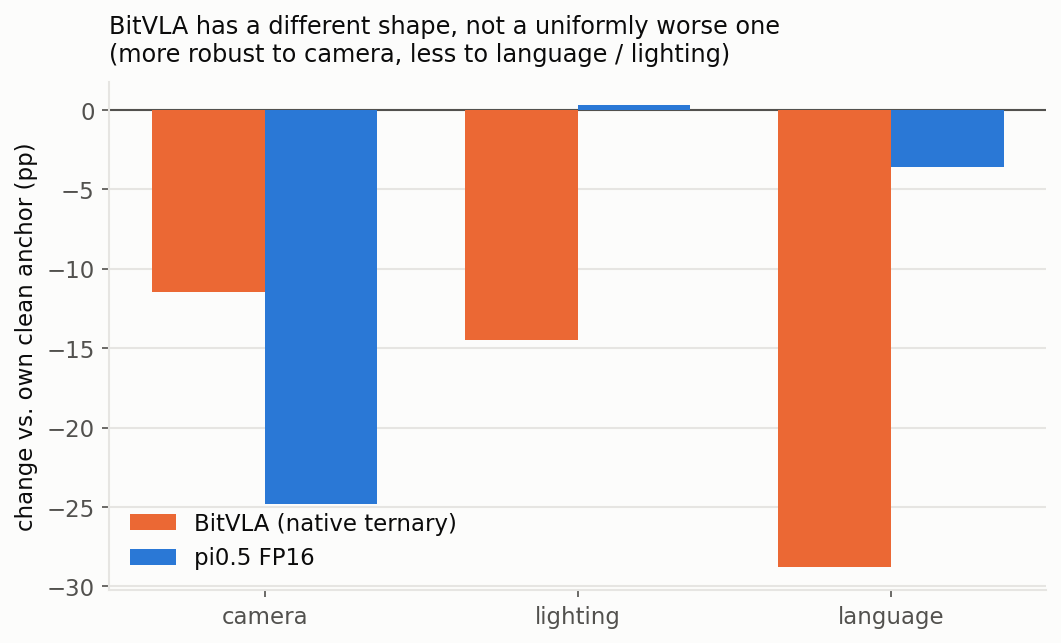
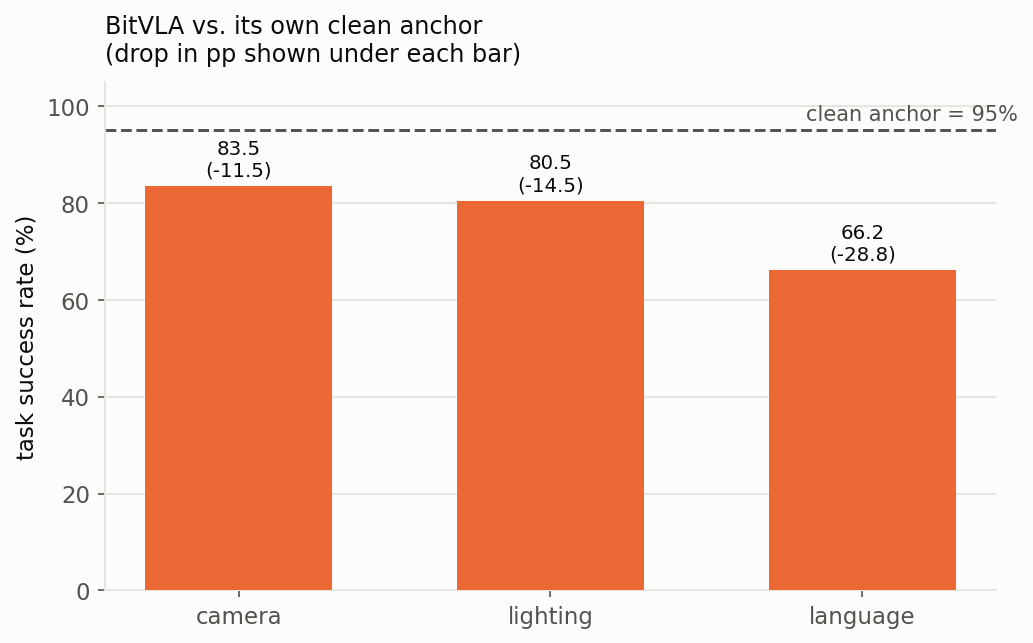
BitVLA: report against its own clean anchor only, drop the pi0.5 FP16 comparison

diff --git a/scripts/make_figures.py b/scripts/make_figures.py
@@ -131,24 +131,28 @@ def fig_parity():
     plt.close(fig)
 
 
-# --- Figure 4: BitVLA robustness profile (secondary observation) --------------
+# --- Figure 4: BitVLA vs. its own clean anchor (secondary observation) ---------
 def fig_bitvla():
     df = pd.read_csv(os.path.join(DATA, "bitvla_native_lowbit.csv"), comment="#")
+    clean = float(df.loc[df["axis"] == "clean", "bitvla_sr"].iloc[0])
     df = df[df["axis"] != "clean"]
     axes = df["axis"]
     x = np.arange(len(df))
-    w = 0.36
-    fig, ax = plt.subplots(figsize=(7.2, 4.4))
-    ax.bar(x - w / 2, df["bitvla_drop"], w, label="BitVLA (native ternary)", color=C_Q1, zorder=3)
-    ax.bar(x + w / 2, df["pi05_drop"], w, label="pi0.5 FP16", color=C_FP16, zorder=3)
-    ax.axhline(0, color=INK2, lw=1.0)
+    fig, ax = plt.subplots(figsize=(7.0, 4.4))
+    bars = ax.bar(x, df["bitvla_sr"], 0.6, color=C_Q1, zorder=3)
+    ax.axhline(clean, color=INK2, lw=1.4, ls="--", zorder=2)
+    ax.text(len(df) - 0.5, clean + 1.2, f"clean anchor = {clean:.0f}%",
+            ha="right", va="bottom", color=INK2, fontsize=10)
+    for xi, (sr, drop) in enumerate(zip(df["bitvla_sr"], df["drop"])):
+        ax.text(xi, sr + 1.2, f"{sr:.1f}\n({drop:+.1f})", ha="center", va="bottom",
+                color=INK, fontsize=9.5)
     style(ax)
     ax.set_xticks(x)
     ax.set_xticklabels(axes)
-    ax.set_ylabel("change vs. own clean anchor (pp)")
-    ax.set_title("BitVLA has a different shape, not a uniformly worse one\n(more robust to camera, less to language / lighting)",
+    ax.set_ylabel("task success rate (%)")
+    ax.set_ylim(0, 105)
+    ax.set_title("BitVLA vs. its own clean anchor\n(drop in pp shown under each bar)",
                  fontsize=11.5, color=INK, loc="left", pad=10)
-    ax.legend(frameon=False, loc="lower left")
     fig.tight_layout()
     fig.savefig(os.path.join(FIGS, "fig4_bitvla_profile.png"), dpi=150, bbox_inches="tight")
     plt.close(fig)

diff --git a/docs/04_bitvla_native_lowbit.md b/docs/04_bitvla_native_lowbit.md
@@ -6,47 +6,39 @@ pending). **Data:** [`../data/bitvla_native_lowbit.csv`](../data/bitvla_native_l
 This section sits apart from the rest of the repository. BitVLA is **not**
 post-training quantized: every LLM weight is trained ternary {−1,0,1} and the
 vision encoder is 1.58-bit quantization-aware distilled. It has **no FP16 twin**,
-so it cannot be put into a matched comparison the way the PTQ packs can. It is
-shown here only to contrast native low-bit training against the post-training
-quantization measured elsewhere in this repo.
+so there is nothing to put it into a matched comparison against. It is reported
+here purely on its own terms — how far each perturbation moves it from its own
+clean performance.
 
 At ~1.4 GB it is roughly 11× smaller than OpenVLA-OFT.
 
-Because the two models start from different clean scores, the fair cross-model
-view is each model's **drop relative to its own clean anchor**:
+| condition | success rate | drop vs. clean |
+|---|---:|---:|
+| clean | 95.0 | — |
+| camera (viewpoint) | 83.5 | −11.5 |
+| lighting | 80.5 | −14.5 |
+| language (paraphrase) | 66.2 | −28.8 |
 
-| axis | BitVLA SR | BitVLA drop | pi0.5-FP16 SR | pi0.5 drop | relative |
-|---|---:|---:|---:|---:|---:|
-| clean | 95.0 | — | 99.0 | — | — |
-| camera (viewpoint) | 83.5 | −11.5 | 74.2 | −24.8 | **+13.3** |
-| lighting | 80.5 | −14.5 | 99.3 | +0.3 | **−14.8** |
-| language (paraphrase) | 66.2 | −28.8 | 95.4 | −3.6 | **−25.2** |
+`drop` = success rate − clean success rate.
 
-`relative` = BitVLA drop − pi0.5 drop; positive means BitVLA is *more* robust on
-that axis.
-
-![BitVLA profile](../figures/fig4_bitvla_profile.png)
+![BitVLA vs. its own clean anchor](../figures/fig4_bitvla_profile.png)
 
 ## What it shows
 
-The observation is not "BitVLA is worse" but "**BitVLA has a different
-robustness shape**":
+Measured against its own clean anchor of 95%, BitVLA is affected unevenly by the
+three perturbations completed so far:
 
-- **More** robust to camera viewpoint — it loses 11.5pp where pi0.5 loses 24.8pp.
-- **Less** robust to instruction paraphrase (−28.8pp vs. −3.6pp) and to lighting
-  (−14.5pp vs. ≈0).
+- **Camera viewpoint** costs it 11.5pp — the mildest of the three.
+- **Lighting** costs 14.5pp.
+- **Language paraphrase** is the heaviest, at 28.8pp — roughly a third of its
+  clean performance.
 
-Set against the PTQ results in this repo — where the quantized copies of pi0.5
-track the FP16 model across every benchmark — the contrast is the point:
-post-training quantization of pi0.5 preserves the base model's robustness shape,
-while a natively-trained 1-bit model of a different architecture class has its
-own, different shape.
+So the perturbations that move this natively-trained ternary model most are the
+semantic/instruction ones (language), and the appearance one it tolerates best is
+camera viewpoint.
 
 ## Caveats
 
 Provisional: seed 0 only, four LIBERO-plus axes (sensor noise, layout, robot
 initial, background) and the noise dose–response arms still pending. The three
-axes above are the completed ones. Attribution is open — how much of the language
-deficit is ternary *training* versus BitVLA being a smaller, OFT-style backbone
-that may rely on language differently — and cannot be settled from these numbers
-alone.
+axes above are the completed ones.

diff --git a/README.md b/README.md
@@ -87,16 +87,16 @@ behaves differently, it just does not succeed less often.)
 
 ### 4. BitVLA — a natively-trained 1-bit model (secondary observation)
 BitVLA is not post-training quantized; it is trained ternary and has no FP16
-twin, so it is shown as a cross-model drop curve, not a matched comparison.
+twin, so it is reported entirely on its own terms — each perturbation measured
+against BitVLA's own clean anchor (95%).
 → **[docs/04_bitvla_native_lowbit.md](docs/04_bitvla_native_lowbit.md)**
 
-![BitVLA profile](figures/fig4_bitvla_profile.png)
+![BitVLA vs. its own clean anchor](figures/fig4_bitvla_profile.png)
 
-Its robustness *shape* differs from pi0.5's: markedly more robust to camera
-viewpoint, markedly less robust to language paraphrase and lighting. Included
-here to mark the contrast between post-training quantization (which tracks the
-FP16 model in this data) and native low-bit training (which does not). Seed-0,
-four axes still pending — treat as provisional.
+Of the three axes completed so far, language paraphrase moves it most (−28.8pp),
+then lighting (−14.5pp), with camera viewpoint the mildest (−11.5pp). Included as
+a separate look at how a natively-trained low-bit model behaves under shift.
+Seed-0, four axes still pending — treat as provisional.
 
 ---
 
